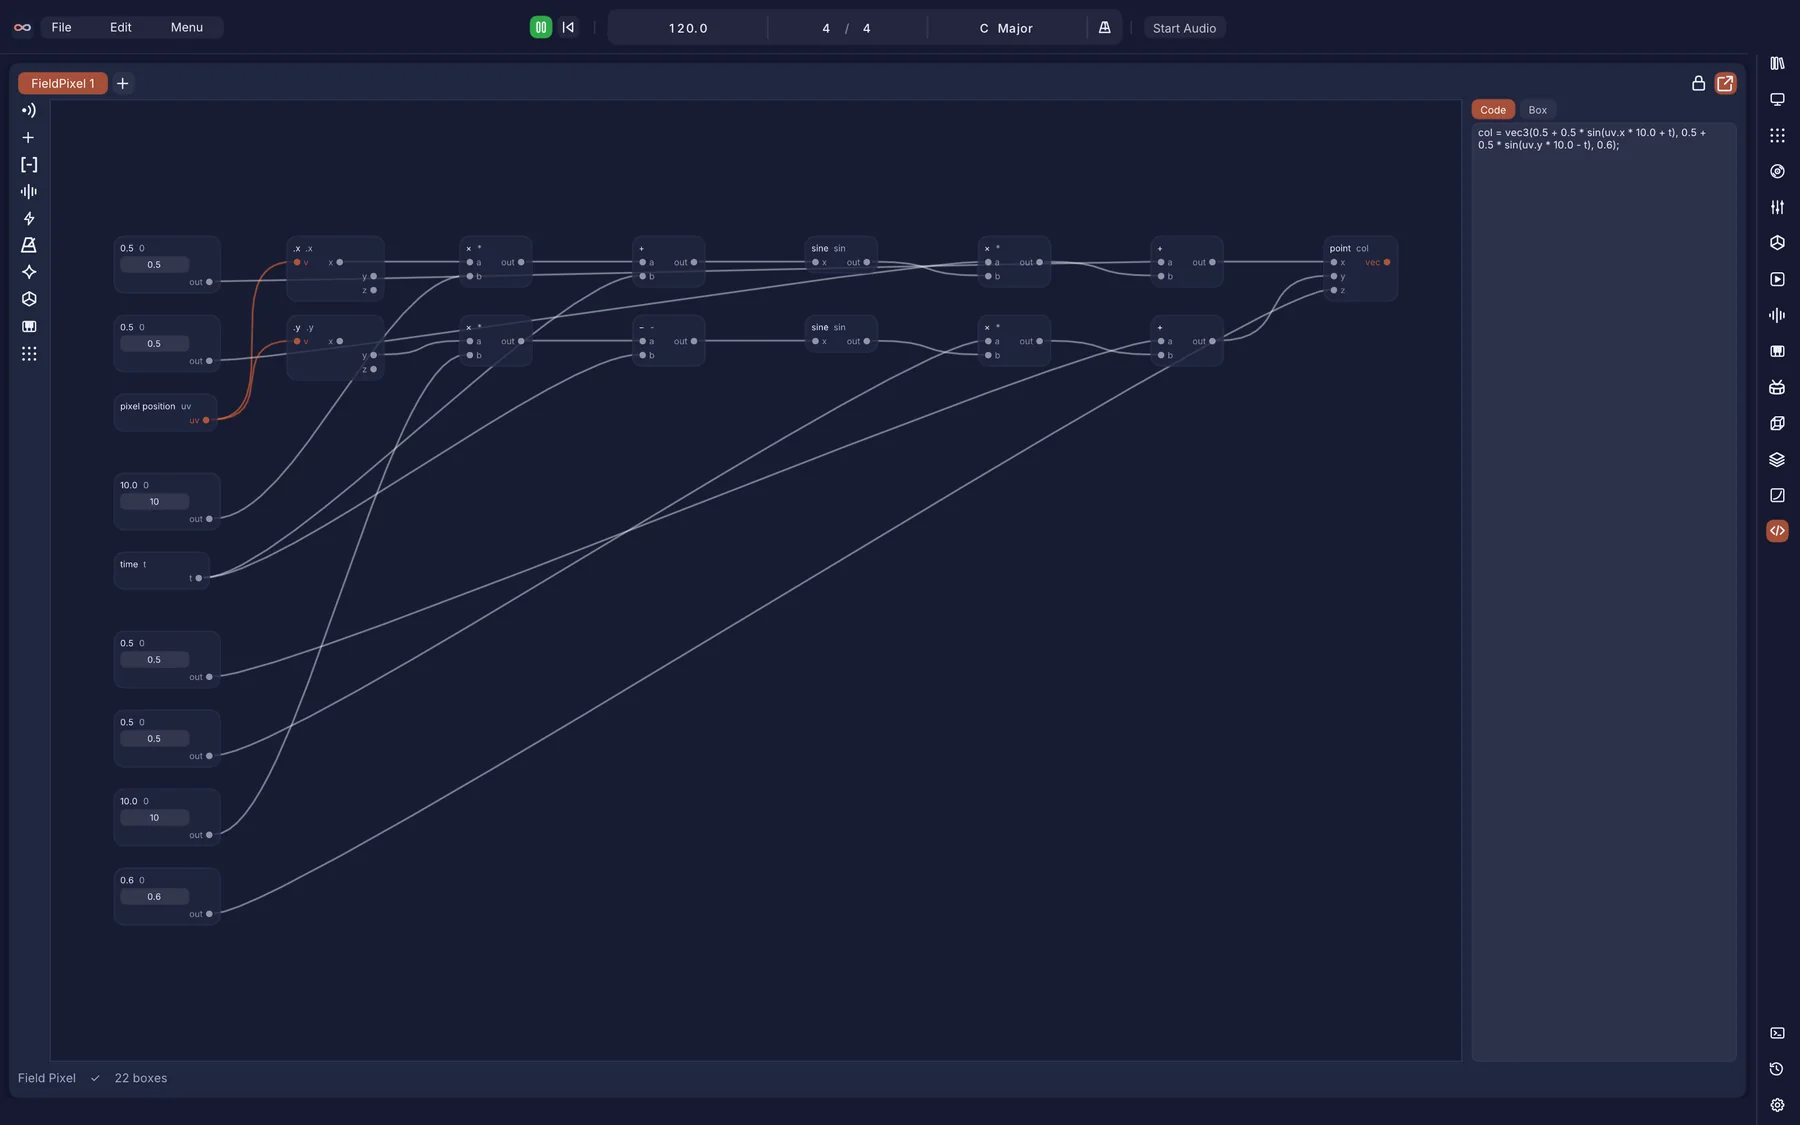
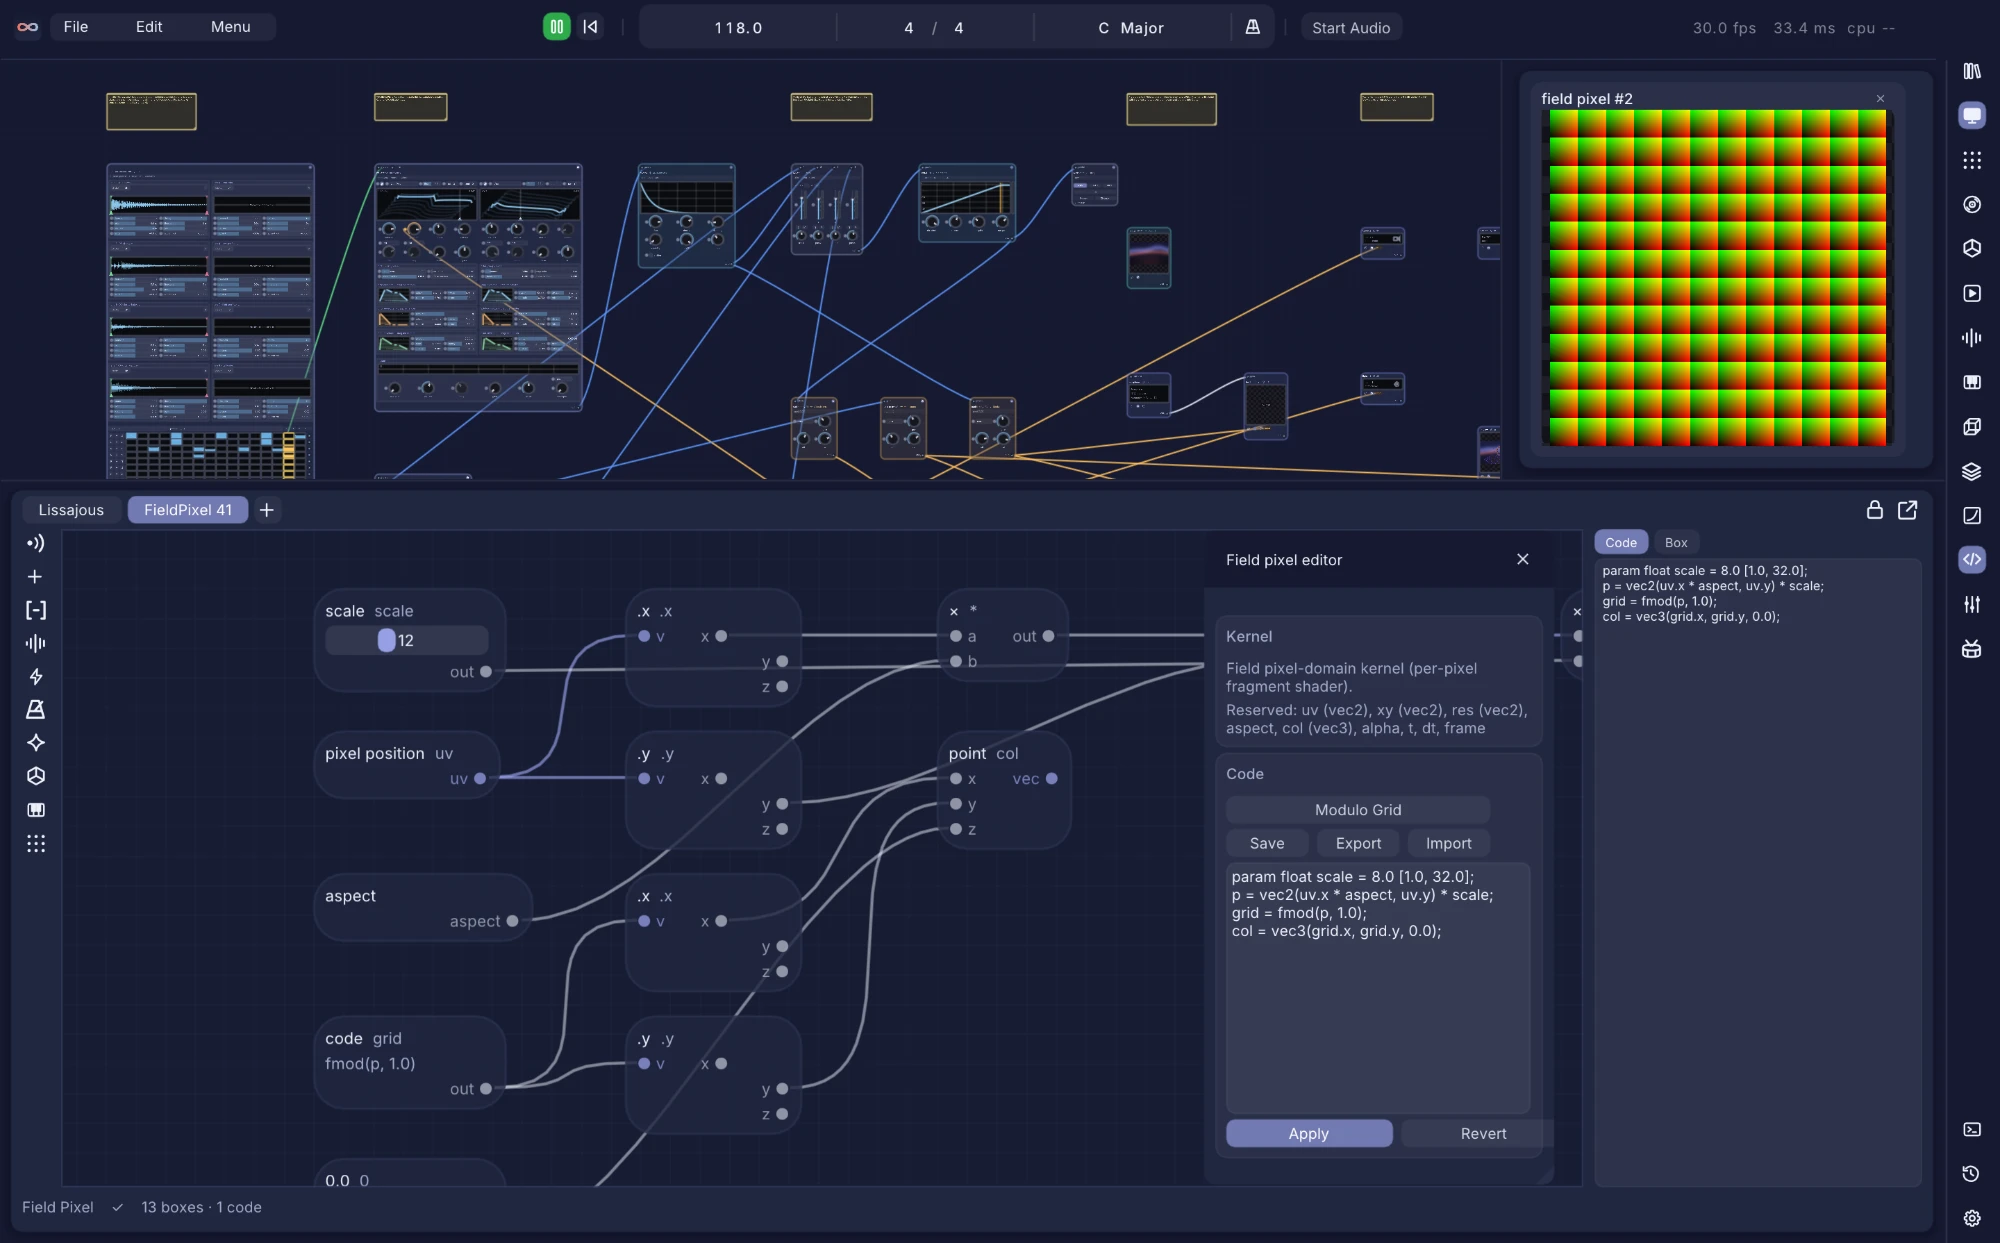
README and website: the owner's Field Patcher shot

diff --git a/website/creative-coders.html b/website/creative-coders.html
@@ -133,7 +133,7 @@
     <div class="container">
       <section class="aud-section reveal">
         <h2 class="ax-h">Screens</h2>
-        <div class="aud-shots"><figure class="aud-shot"><img src="assets/showcase/field-patcher.webp?v=3" alt="Infinite Field Patcher visual box-and-wire editor synced with Field code" width="1800" height="1125" loading="lazy" decoding="async"><figcaption>Field Patcher: two-way box-and-wire and Field code editor across 10 box families.</figcaption></figure><figure class="aud-shot"><img src="assets/showcase/chat.webp?v=4" alt="Infinite Chat panel: asking agents about a named node in the patch" width="2000" height="1053" loading="lazy" decoding="async"><figcaption>Chat: name a node with @ and ask an agent; it reads the patch first.</figcaption></figure></div>
+        <div class="aud-shots"><figure class="aud-shot"><img src="assets/showcase/field-patcher.webp?v=4" alt="Infinite Field Patcher editing a Field Pixel kernel as boxes and wires, synced with its code" width="2000" height="1243" loading="lazy" decoding="async"><figcaption>Field Patcher: two-way box-and-wire and Field code editor across 10 box families.</figcaption></figure><figure class="aud-shot"><img src="assets/showcase/chat.webp?v=4" alt="Infinite Chat panel: asking agents about a named node in the patch" width="2000" height="1053" loading="lazy" decoding="async"><figcaption>Chat: name a node with @ and ask an agent; it reads the patch first.</figcaption></figure></div>
       </section>
       <section class="aud-section reveal">
         <h2 class="ax-h">Nodes</h2>

diff --git a/website/index.html b/website/index.html
@@ -396,6 +396,9 @@
               <div class="showcase-slide" data-title="Infinite &middot; Session and Performance" data-src="assets/showcase/performance-session.webp?v=4">
                 <img class="product-shot" loading="lazy" decoding="async" data-src="assets/showcase/performance-session.webp?v=4" alt="Infinite Session view of clips and scenes beside the Performance panel" width="2000" height="1244">
               </div>
+              <div class="showcase-slide" data-title="Infinite &middot; Field Patcher" data-src="assets/showcase/field-patcher.webp?v=4">
+                <img class="product-shot" loading="lazy" decoding="async" data-src="assets/showcase/field-patcher.webp?v=4" alt="Infinite Field Patcher: a Field Pixel kernel as boxes and wires, synced with its code and live preview" width="2000" height="1243">
+              </div>
               <div class="showcase-slide" data-title="Infinite &middot; Piano Roll" data-src="assets/showcase/piano-roll.webp?v=4">
                 <img class="product-shot" loading="lazy" decoding="async" data-src="assets/showcase/piano-roll.webp?v=4" alt="Infinite Piano Roll with notes in a scale beside an MSEG" width="2000" height="1244">
               </div>

diff --git a/README.md b/README.md
@@ -119,7 +119,7 @@ The final stage of a 3D patch (Shift + 3). Right-click a 3D node, add it to the 
 
 ### Field Patcher
 
-<img src="docs/screenshots/v2/field-patcher.png" alt="Field Patcher editing a Field node as boxes and wires synced with code" width="100%">
+<img src="docs/screenshots/v2/field-patcher.webp" alt="Field Patcher editing a Field Pixel kernel as boxes and wires, synced with its code and live preview" width="100%">
 
 A docked visual box-and-wire editor for the Field language (Shift + F, or the **Boxes** button on any Field node). Edit `Field Notes`, `Field Primitive`, `Field Modulator`, `Field Modifier`, `Field Pixel` and `Field Effect` nodes visually across 10 box families (`Sources`, `Arithmetic`, `Range`, `Waves`, `Logic`, `Time & memory`, `Random`, `Geometry`, `Music`, `Inlets / outlets`) and 20 built-in starters, with two-way sync to the `Code` tab and scratch pages saved in the patch.
 
